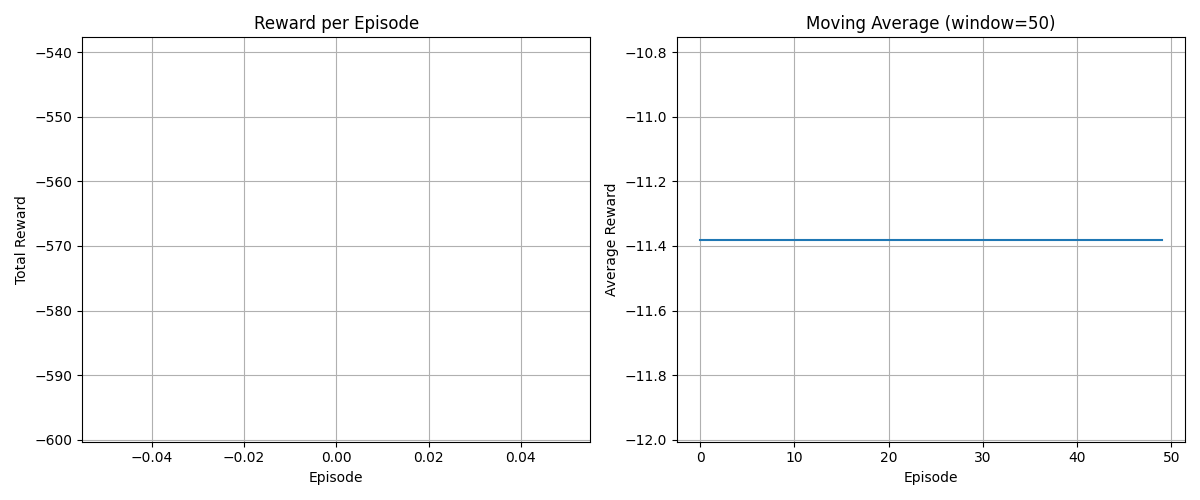
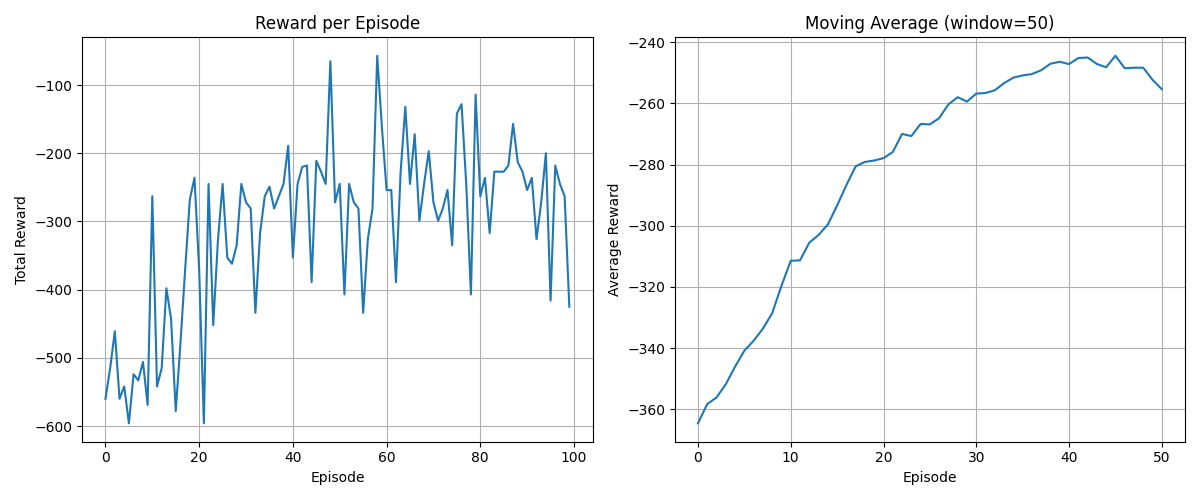
feat: increase training epochs to 100 and adjust logging output

diff --git a/TD2/q_learning.py b/TD2/q_learning.py
@@ -38,7 +38,7 @@ if __name__ == "__main__":
     gamma = 0.99
     epsilon = 0.1
 
-    n_epochs = 1
+    n_epochs = 100
     max_itr_per_epoch = 200
     rewards = []
 
@@ -64,8 +64,7 @@ if __name__ == "__main__":
 
         epsilon = max(0.01, epsilon * 0.995)
 
-        if e % 100 == 0:
-            print(f"Episode #{e} : reward = {r}, epsilon = {epsilon:.3f}")
+        print(f"Episode #{e} : reward = {r}, epsilon = {epsilon:.3f}")
 
         rewards.append(r)
 
